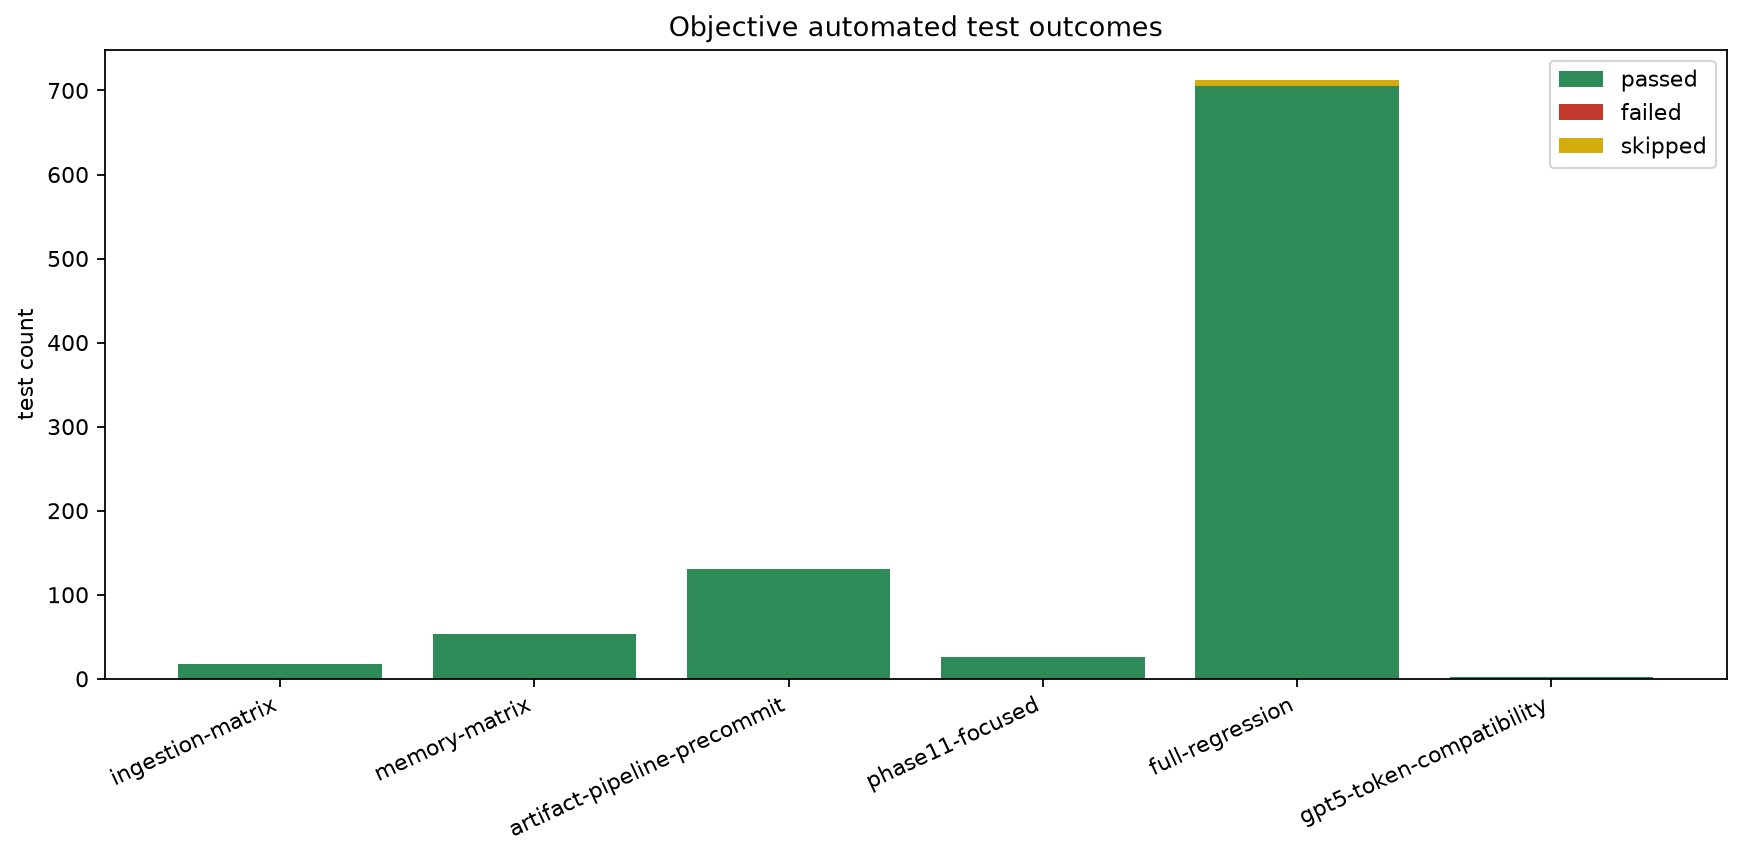
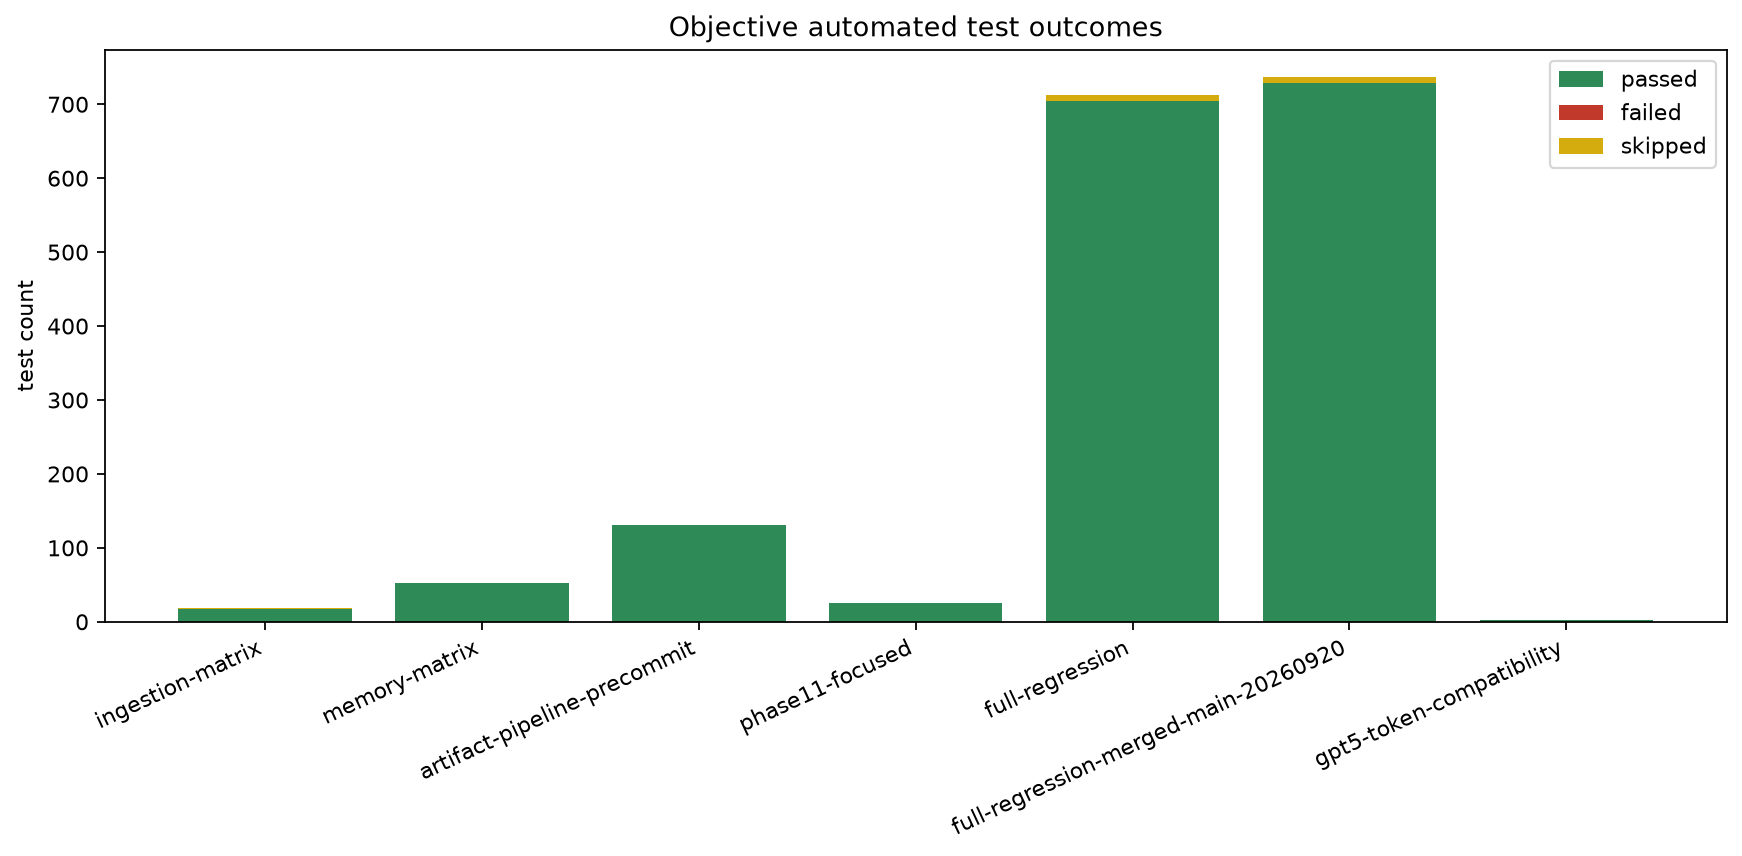
Report reconciliation

diff --git a/docs/all test phases/benchmark-results/benchmark-results-report.md b/docs/all test phases/benchmark-results/benchmark-results-report.md
@@ -11,6 +11,9 @@ This checkpoint turns existing test evidence into a reusable benchmark
 dataset and separate Matplotlib charts. It is a reporting layer, not a new
 runtime path.
 
+The dataset was refreshed after the merge onto `main`. Historical records are
+retained, while the latest merged-main regression is recorded separately.
+
 ## WHY
 
 Test counts, system timing, provider usage, and artifact quality answer
@@ -32,13 +35,15 @@ the dataset.
 
 ## INPUT
 
-The dataset contains eight records:
+The dataset contains 17 records, including historical focused checks, live
+observations, and the current merged-main verification:
 
 - ingestion matrix: 17 passed, 1 skipped, 0 failed, 620 ms;
 - memory matrix: 53 passed, 0 skipped, 0 failed, 390 ms;
 - artifact/pipeline focused checks: 131 passed, 0 skipped, 0 failed, 6,300 ms;
 - Phase 11 focused checks: 26 passed, 0 skipped, 0 failed, 20,420 ms;
-- latest full local regression: 703 passed, 8 skipped, 0 failed, 58,100 ms;
+- historical full local regression: 703 passed, 8 skipped, 0 failed, 58,100 ms;
+- current merged-main regression: 729 passed, 8 skipped, 0 failed, 48,230 ms;
 - offline G01 replay: 1 objective grounding check passed;
 - Phase 11 catalogue readiness: 3 checks passed in 60 ms; all 10 golden and
   all 3 holdout cases are present, disjoint, sanitized, and contract-defined;
@@ -175,6 +180,19 @@ Regenerate the CSV, manifest, and charts:
 
 The current validation result is **3 passed**. The generator makes no API,
 provider, database, or Cognee calls.
+
+### Merged-main verification — 2026-09-20
+
+The fresh read-only regression on merged `main` completed with:
+
+```text
+729 passed, 8 skipped, 47 warnings in 48.23s
+```
+
+No source or configuration files were changed by this verification. The
+benchmark dataset now records this result as
+`suite-full-regression-merged-main-20260920`. The 47 warnings are dependency
+warnings and remain distinct from test failures.
 
 The Phase 11 catalogue validation result is **3 passed in 0.06 seconds**. It
 proves offline case-set readiness, not live model execution.

diff --git a/docs/all test phases/quality-engineering-progress.md b/docs/all test phases/quality-engineering-progress.md
@@ -58,7 +58,7 @@ PPTX artifact path.
 - [x] 36. Trajectory (safe event timeline and parallel lanes)
 - [x] 37. Observability (memory/provider/error visibility with redaction)
 - [x] 38. Telemetry (latency/usage/cost projection with duplicate receipt protection)
-- [x] 39. Full regression (latest: 705 passed, 8 skipped, 32 warnings; Cloud-configured API run remains pending)
+- [x] 39. Full regression (latest merged-main verification: 729 passed, 8 skipped, 47 warnings; Cloud-configured API run remains pending)
 - [ ] 40. Golden cases (G01 live recall recovered; quality gate rejected the final draft; replay fixture added)
 - [ ] 41. Holdout cases
 - [ ] 42. External AI baseline
@@ -82,7 +82,7 @@ PPTX artifact path.
 - Observability/telemetry report: `observability-telemetry-testing-report.md`
 - Latest Phase 9 matrix result: **7 passed**; affected regression: **149 passed, 1 warning**
 - First-half audit: `first-half-quality-audit.md`
-- Latest full deterministic local regression: **705 passed, 8 skipped, 32 warnings**
+- Latest full deterministic local regression on merged `main` (2026-09-20): **729 passed, 8 skipped, 47 warnings in 48.23 seconds**
 - Phase 11 golden/holdout catalogue: `phase-11-golden-and-holdout-cases.md`
 - Agentic performance/cost measurement report: `agentic-system-performance-and-cost-report.md`
 - Live G01 checkpoint: same-case bounded context recovered and other-case
@@ -114,6 +114,8 @@ PPTX artifact path.
 - Benchmark source dataset: `benchmark-results/benchmark-results.json`
 - Benchmark charts and traceability manifest: `benchmark-results/*.png`,
   `benchmark-results/benchmark-results.csv`, and `benchmark-results/chart-manifest.json`
+- Merged-main verification (2026-09-20): **729 passed, 8 skipped, 47 warnings
+  in 48.23 seconds**; source code and configuration were unchanged.
 - One-run live artifact runbook: `phase-11-live-artifact-runbook.md`; the
   sanitized G01 presentation request contract passed **33 focused tests**.
 
